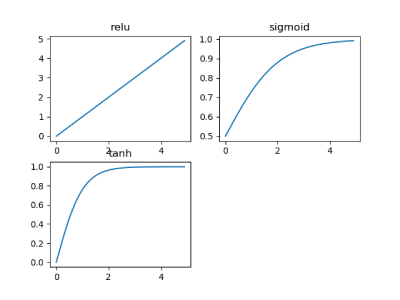
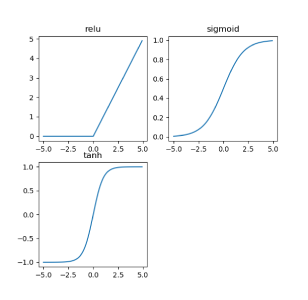
change readme

diff --git a/docs/dl/activation.py b/docs/dl/activation.py
@@ -1,5 +1,6 @@
 from pycontrol import dl
 import numpy as np
+import copy
 import torch
 import matplotlib.pyplot as plt
 
@@ -10,17 +11,17 @@ def plot(x):
 
     fig.add_subplot(221)
     plt.title('relu')
-    y = show_relu(x)
+    y = show_relu(copy.deepcopy(x))
     plt.plot(x, y)
 
     fig.add_subplot(222)
     plt.title('sigmoid')
-    y = show_sigmoid(x)
+    y = show_sigmoid(copy.deepcopy(x))
     plt.plot(x, y)
 
     fig.add_subplot(223)
     plt.title('tanh')
-    y = show_tanh(x)
+    y = show_tanh(copy.deepcopy(x))
     plt.plot(x, y)
 
     plt.show()
@@ -41,4 +42,6 @@ def show_tanh(x):
 if __name__ == '__main__':
     x = torch.arange(-5, 5, step=0.1, dtype=torch.float64)
     plot(x)
+
+
 

diff --git a/readme.md b/readme.md
@@ -1,4 +1,4 @@
-pycontrol
+## pycontrol
 
 	Pycontrol is a library of vision, control, mathematics, machine learning, deep learning and other aspects. Adapted the 14 lectures of Gao Xiang slam into Python version. It is the knowledge I summarized in the learning process.
 
@@ -44,7 +44,7 @@ The knowledge of principle can be referred here
 
 ![](https://github.com/wangce888/pycontrol/blob/master/docs/cv/data/jointMap.png)
 
-image_processing：
+image_processing：  
 [filtering](https://github.com/wangce888/pycontrol/blob/master/docs/cv/image_processing/filtering.py)&emsp;&emsp;
 
 
